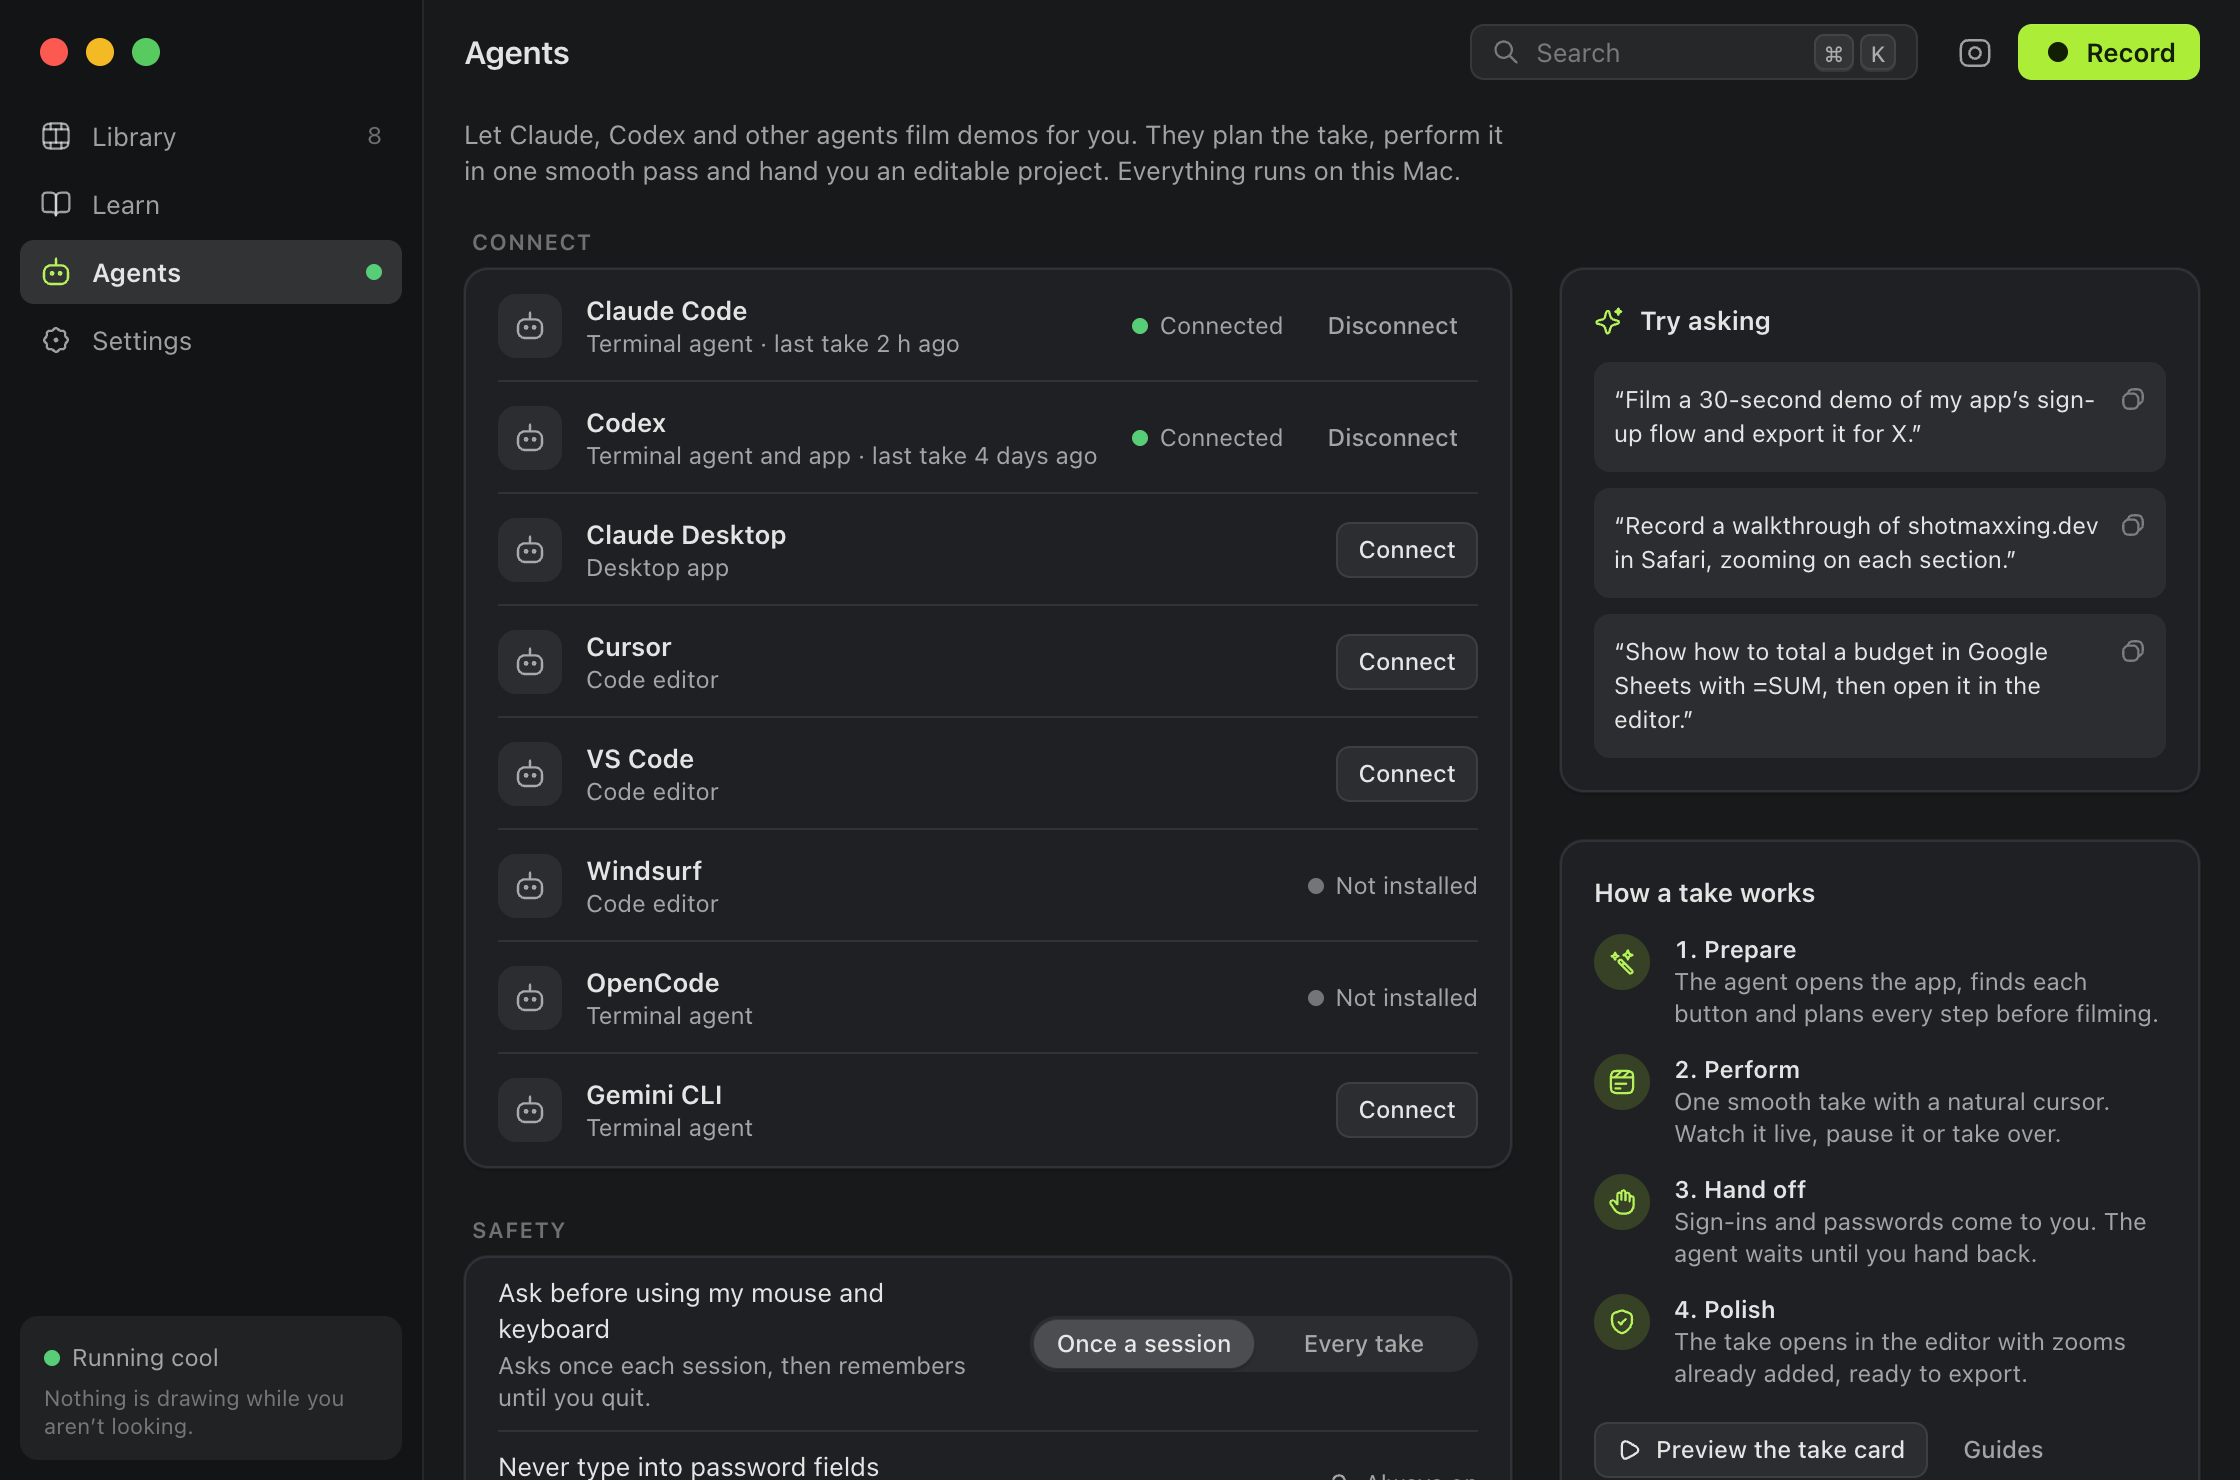
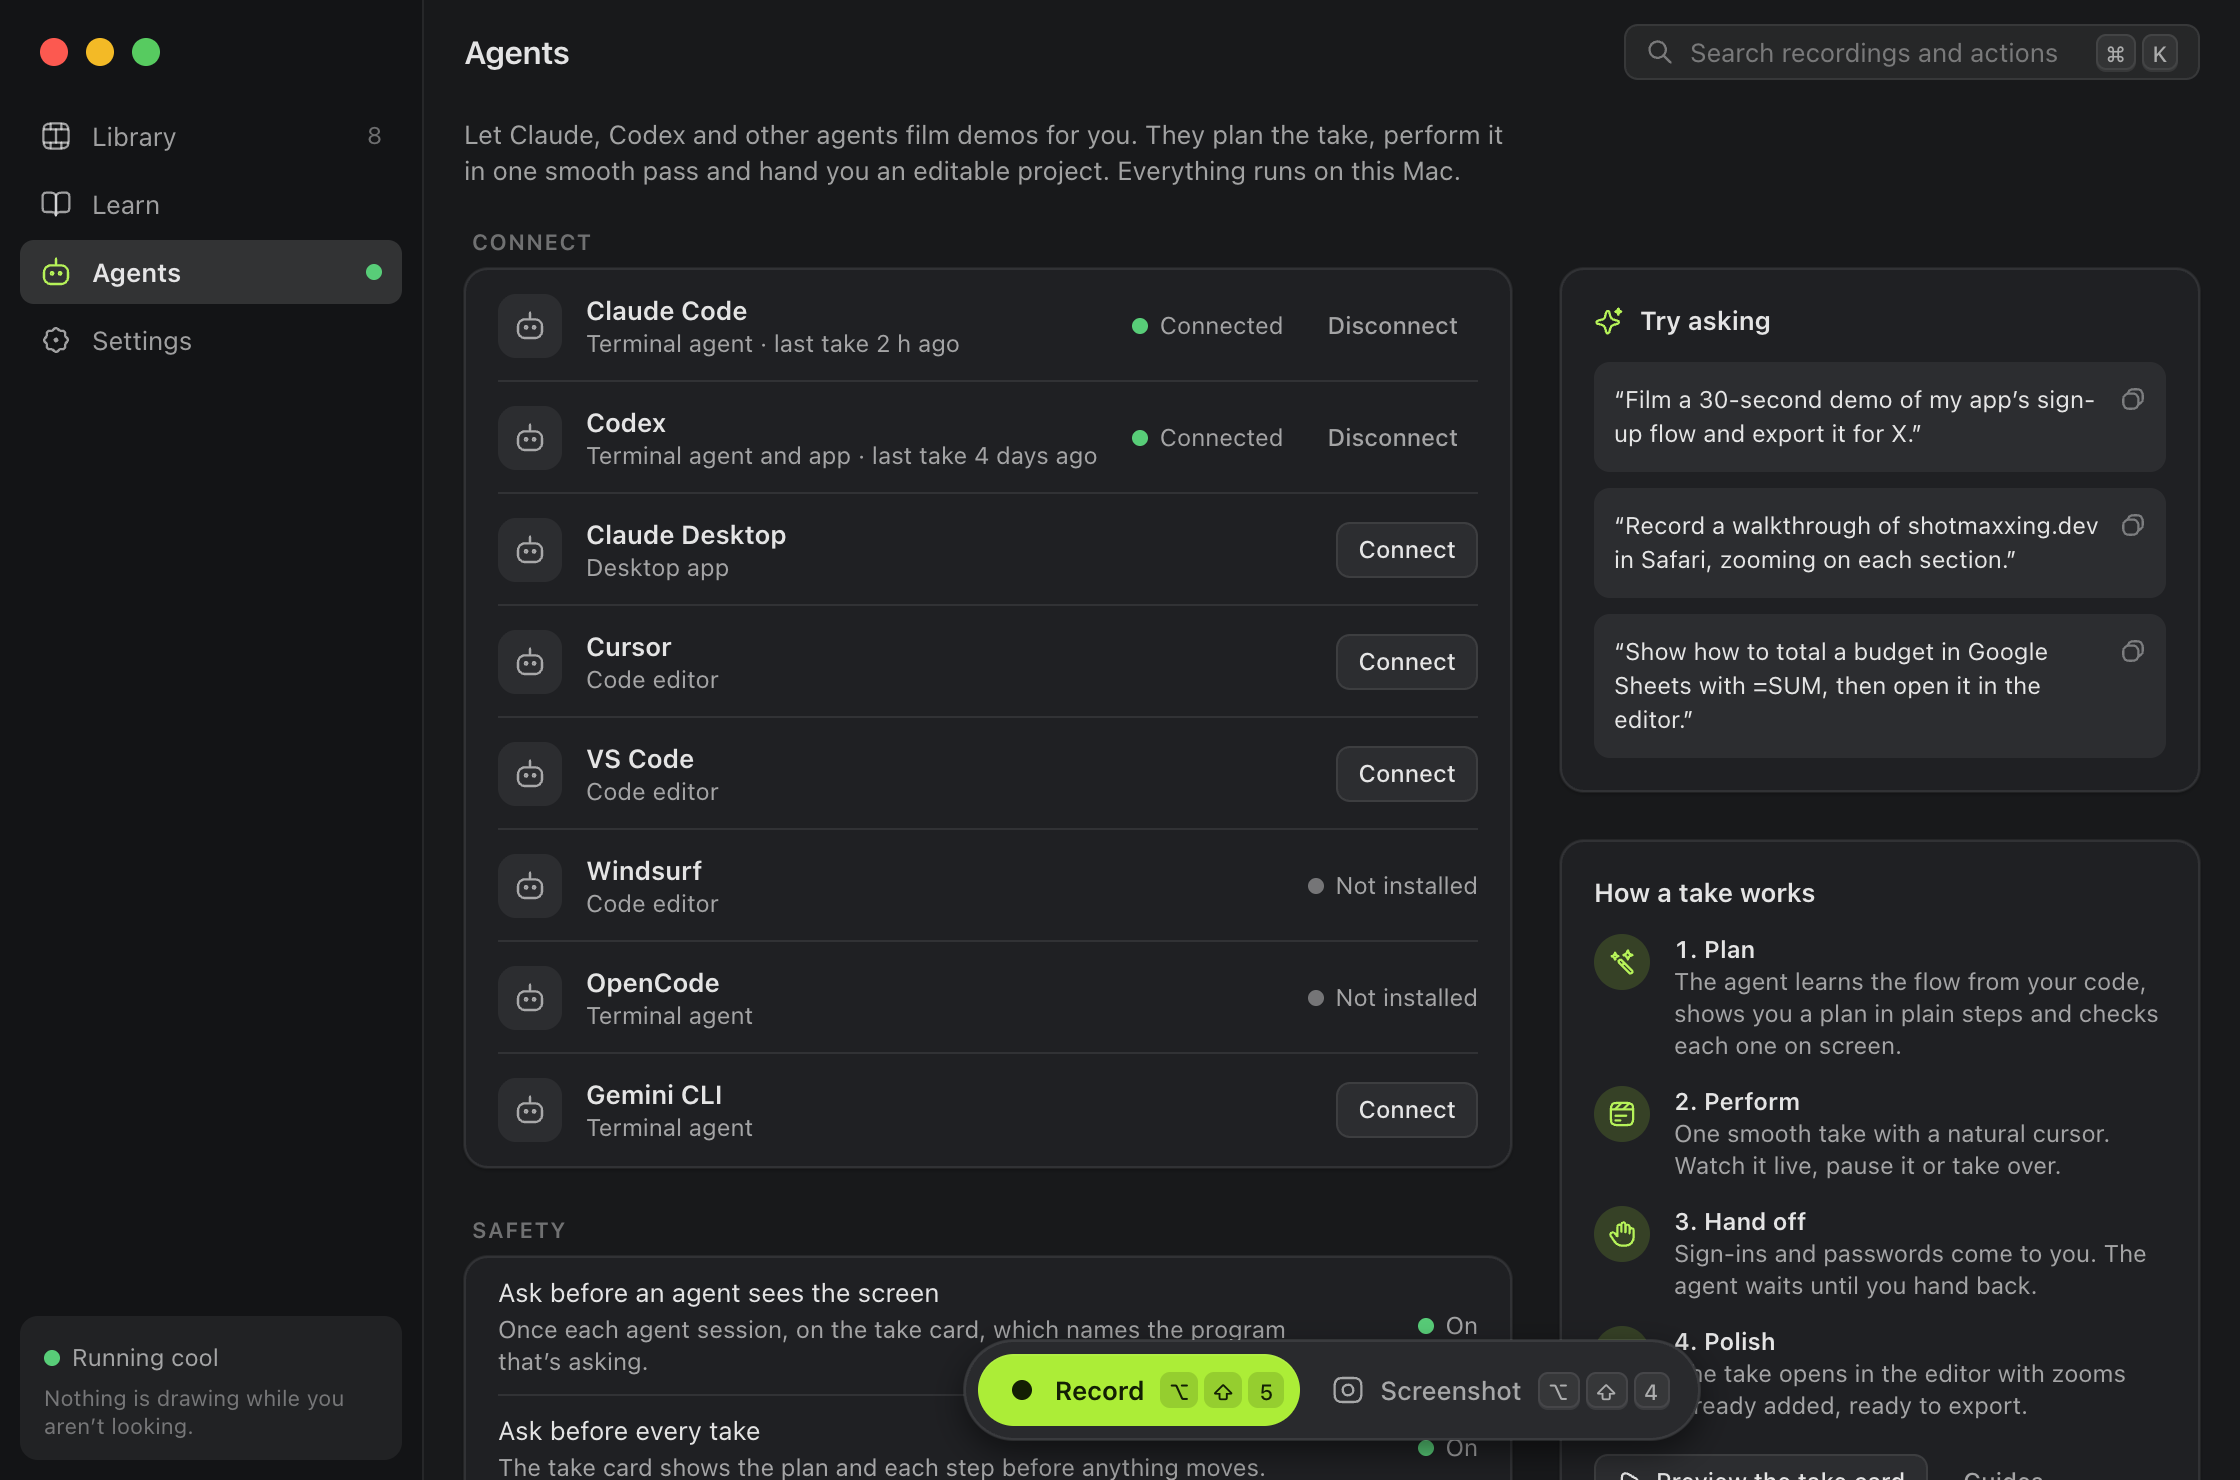
Docs pictures show the plan and the new safety rules; declare the enumerator feature
- The take card picture shows the plan line, and its crop moved up so the taller card fits.
- The Agents page's first take step is now Plan: the agent learns the flow from the code, shows a plan and
  checks each step on screen. Its picture and the others are rendered again from the preview.
- The desktop crate asks objc2-foundation for NSEnumerator itself, since the red edge and the menu-bar dot
  iterate arrays; it only built before because another crate turned that feature on.

diff --git a/apps/desktop/src/routes/home/Agents.svelte b/apps/desktop/src/routes/home/Agents.svelte
@@ -163,7 +163,7 @@
       <section class="rounded-card border border-border bg-surface p-4 shadow-[var(--elev-1)]">
         <h3 class="text-callout font-semibold">How a take works</h3>
         <ol class="mt-3 flex flex-col gap-3">
-          {#each [{ icon: Wand, title: 'Prepare', body: 'The agent opens the app, finds each button and plans every step before filming.' }, { icon: Clapperboard, title: 'Perform', body: 'One smooth take with a natural cursor. Watch it live, pause it or take over.' }, { icon: Hand, title: 'Hand off', body: 'Sign-ins and passwords come to you. The agent waits until you hand back.' }, { icon: ShieldCheck, title: 'Polish', body: 'The take opens in the editor with zooms already added, ready to export.' }] as stepItem, i (stepItem.title)}
+          {#each [{ icon: Wand, title: 'Plan', body: 'The agent learns the flow from your code, shows you a plan in plain steps and checks each one on screen.' }, { icon: Clapperboard, title: 'Perform', body: 'One smooth take with a natural cursor. Watch it live, pause it or take over.' }, { icon: Hand, title: 'Hand off', body: 'Sign-ins and passwords come to you. The agent waits until you hand back.' }, { icon: ShieldCheck, title: 'Polish', body: 'The take opens in the editor with zooms already added, ready to export.' }] as stepItem, i (stepItem.title)}
             <li class="flex gap-3">
               <span
                 class="grid size-7 shrink-0 place-items-center rounded-full bg-accent-tint text-accent-text"
